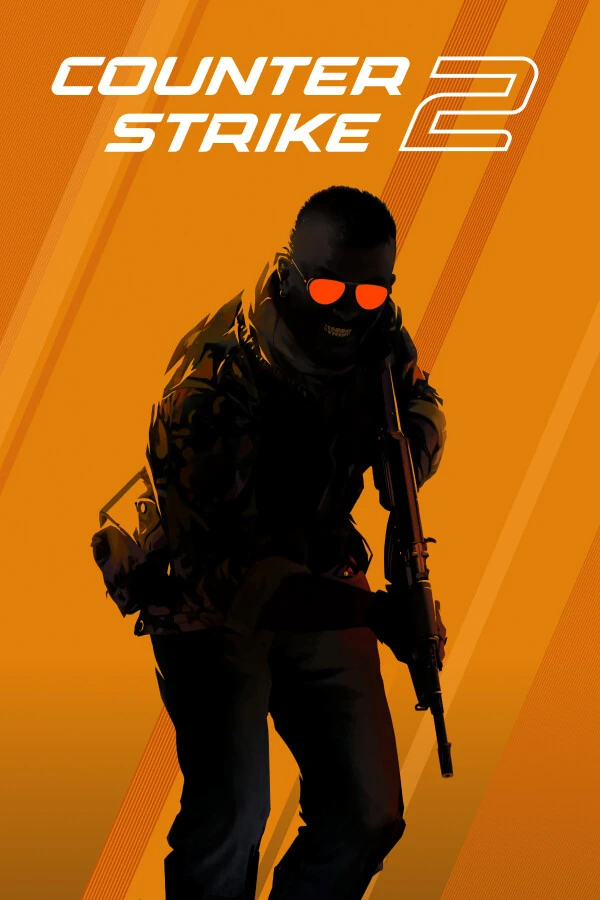
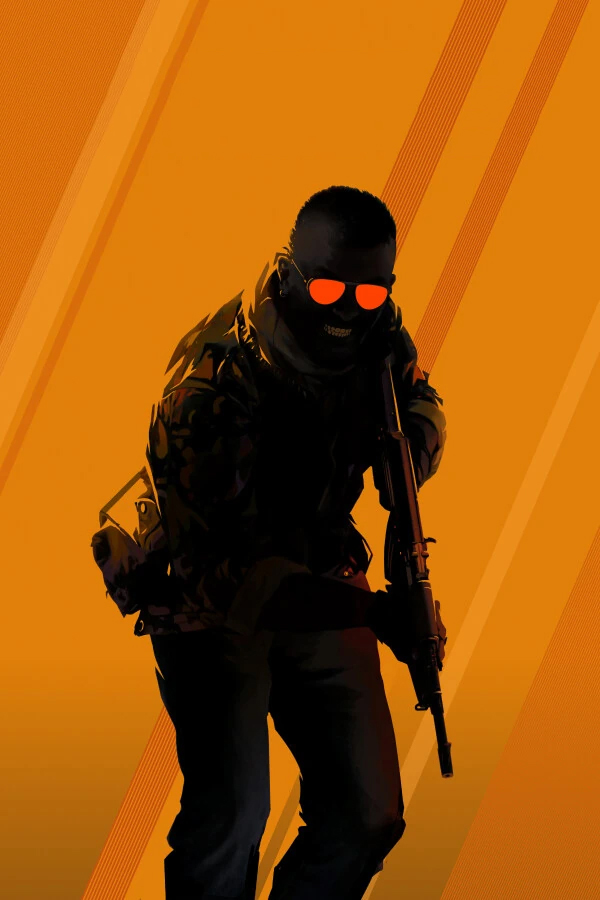
feat(cs2): Update CS2 weapon image handling and enhance trophy display properties

Changed region(s): [[0.09, 0.0622, 0.9, 0.1867]]

diff --git a/js/trophies.js b/js/trophies.js
@@ -1220,9 +1220,9 @@ const TrophiesManager = {
                         const sUrl = `https://www.faceit.com/api/stats/v1/stats/users/${encodeURIComponent(payload.id)}/games/cs2`;
                         const sJson = await TrophiesManager.fetchJsonWithCorsFallback(sUrl);
                         const lt = sJson?.lifetime || {};
-                        payload.kd = lt.k6 || lt['Average K/D Ratio'] || null;
+                        payload.kd = lt.k5 || lt['Average K/D Ratio'] || null;
                         payload.hs = lt.k8 || lt['Average Headshots %'] || null;
-                        payload.winrate = lt.k5 || lt['Win Rate %'] || null;
+                        payload.winrate = lt.k6 || lt['Win Rate %'] || null;
                         payload.matches = lt.m1 || lt['Matches'] || null;
                     } catch {}
                 }
@@ -1251,7 +1251,7 @@ const TrophiesManager = {
 
                 const playstyle = d?.playstyle || d?.rol || 'Agresif';
                 const silah = d?.silah || 'AK-47';
-                const silahGorsel = TrophiesManager.getCS2WeaponImage(silah);
+                const silahGorsel = d?.silahGorsel || TrophiesManager.getCS2WeaponImage(silah);
 
                 const isPremier = secilenMod === 'premier' && Boolean(premierFormatted);
                 const heroLabel = isPremier ? 'PREMIER CS RATING' : 'FACEIT ELO';
@@ -1646,6 +1646,7 @@ const TrophiesManager = {
                 ...(snap.rol ? { rol: snap.rol } : {}),
                 ...(snap.playstyle ? { playstyle: snap.playstyle } : {}),
                 ...(snap.silah ? { silah: snap.silah } : {}),
+                ...(snap.silahGorsel ? { silahGorsel: snap.silahGorsel } : {}),
                 ...(snap.faceitPeak ? { faceitPeak: snap.faceitPeak } : {}),
                 ...(snap.premierPeak ? { premierPeak: snap.premierPeak } : {}),
                 ...(snap.premierRating ? { premierRating: snap.premierRating } : {}),

diff --git a/js/render.js b/js/render.js
@@ -785,6 +785,18 @@ const RenderEngine = {
         const silah = norm.silah || 'AK-47';
         const silahGorsel = norm.silahGorsel || TrophiesManager.getCS2WeaponImage(silah);
 
+        if (!TrophiesManager._cs2WeaponsCache && !window._fetchingCs2Weapons) {
+            window._fetchingCs2Weapons = true;
+            TrophiesManager.getCS2Weapons().then(() => {
+                delete window._fetchingCs2Weapons;
+                if ((window._activeTrophyDetail === 'cs2' || window._activeTrophyDetail === 'faceit') && typeof kartVerisi !== 'undefined' && kartVerisi) {
+                    this.trophiesCiz(kartVerisi);
+                }
+            }).catch(() => {
+                delete window._fetchingCs2Weapons;
+            });
+        }
+
         const makeLevelRing = (levelNum, color) => {
             const pct = levelNum ? Math.max(10, Math.min(100, levelNum * 10)) : 0;
             return `

diff --git a/css/back.css b/css/back.css
@@ -2659,9 +2659,9 @@ body.is-owner .top-item-unit:active {
     width: 100%;
     height: 100%;
     object-fit: cover;
-    object-position: center 15%;
+    object-position: 60% 15%;
     display: block;
-    transform: scale(1.02);
+    transform: scale(1.18);
     transform-origin: center bottom;
 }
 
@@ -2688,11 +2688,11 @@ body.is-owner .top-item-unit:active {
 }
 
 .trophy-cs2-weapon-img {
-    width: 82%;
-    max-width: 150px;
-    height: clamp(32px, 6.5cqh, 52px);
+    width: 92%;
+    max-width: 195px;
+    height: clamp(46px, 9.5cqh, 74px);
     object-fit: contain;
-    filter: drop-shadow(0 4px 10px rgba(0, 0, 0, 0.95));
+    filter: drop-shadow(0 4px 12px rgba(0, 0, 0, 0.95));
     pointer-events: none;
 }
 

diff --git a/js/edit.js b/js/edit.js
@@ -3117,7 +3117,10 @@ EditManager.TrophiesView = {
                 const faceitPeakInp = formWrap.querySelector('.mt-cs2-faceit-peak-input');
                 const premierInp = formWrap.querySelector('.mt-cs2-premier-input');
                 if (styleSel) extraSnap.playstyle = styleSel.value;
-                if (weaponSel) extraSnap.silah = weaponSel.value;
+                if (weaponSel) {
+                    extraSnap.silah = weaponSel.value;
+                    extraSnap.silahGorsel = TrophiesManager.getCS2WeaponImage(weaponSel.value);
+                }
                 if (faceitPeakInp) {
                     extraSnap.faceitPeak = faceitPeakInp.value.replace(/[^\d]/g, '').slice(0, 5);
                 }
